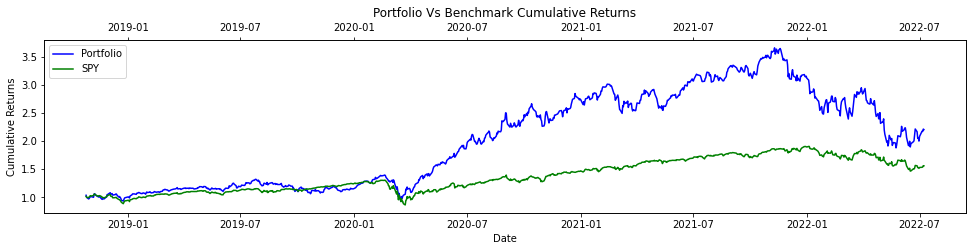
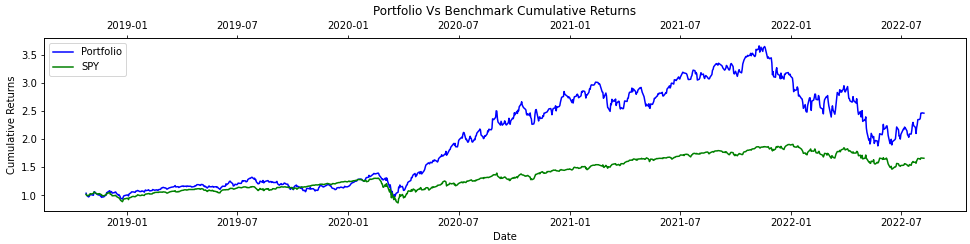
updated portfolio images

Changed region(s): [[0.0309, 0.0287, 1.0, 1.0], [0.0, 0.3156, 0.0619, 0.7172], [0.0619, 0.2582, 0.0928, 0.2869]]

diff --git a/index.html b/index.html
@@ -506,11 +506,11 @@
         <p>
           Stay Humble, as the Markets are humbling.
         </p>
-        <h3>US Equities core portfolio VS SPY ~ 2018/10/25 - 2022-07-08</h3>
-        <amp-img src="images\port_vs_spy_5.png" alt="portfolio VS SPY 1" width="893" height="407" layout="responsive" noloading>
+        <h3>US Equities core portfolio VS SPY ~ 2018/10/25 - 2022-08-08</h3>
+        <amp-img src="images\port_vs_spy_5.png" alt="portfolio VS SPY 5" width="893" height="407" layout="responsive" noloading>
         </amp-img>  
-        <h3>US Equities core portfolio VS SPY ~ 2010/01/01 - 2022-07-08</h3>
-        <amp-img src="images\port_vs_spy_6.png" alt="portfolio VS SPY 2" width="884" height="406" layout="responsive" noloading>
+        <h3>US Equities core portfolio VS SPY ~ 2010/01/01 - 2022-08-08</h3>
+        <amp-img src="images\port_vs_spy_6.png" alt="portfolio VS SPY 6" width="884" height="406" layout="responsive" noloading>
         </amp-img>
 
         <div class="contact">
